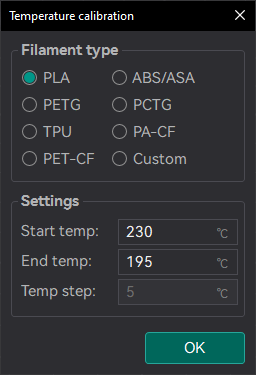
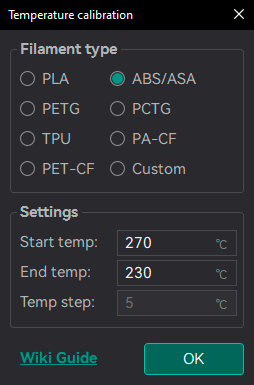
Update temp calib doc
Swap the animated temp-tower GIF for a static PNG and update the menu image.
Reformat the nozzle temperature paragraph for readability, change a NOTE to a TIP, and add a NOTE explaining that the temp tower scales with nozzle diameter.
Remove the old GIF file and include the new PNG asset.

diff --git a/calibration/temp_calib.md b/calibration/temp_calib.md
@@ -7,9 +7,12 @@ There is no other calibration that can have such a big impact on the print quali
 
 ## Nozzle Temp tower
 
-Nozzle temperature is one of the most important settings to calibrate for a successful print. The temperature of the nozzle affects the viscosity of the filament, which in turn affects how well it flows through the nozzle and adheres to the print bed. If the temperature is too low, the filament may not flow properly, leading to under-extrusion, poor layer adhesion and stringing. If the temperature is too high, the filament may degrade, over-extrude and produce stringing.
+Nozzle temperature is one of the most important settings to calibrate for a successful print.  
+The temperature of the nozzle affects the viscosity of the filament, which in turn affects how well it flows through the nozzle and adheres to the print bed.  
+If the temperature is too low, the filament may not flow properly, leading to under-extrusion, poor layer adhesion and stringing.  
+If the temperature is too high, the filament may degrade, over-extrude and produce stringing.
 
-![temp-tower_test](https://github.com/OrcaSlicer/OrcaSlicer_WIKI/blob/main/images/Temp-calib/temp-tower_test.gif?raw=true)
+![temp-tower_test](https://github.com/OrcaSlicer/OrcaSlicer_WIKI/blob/main/images/Temp-calib/temp-tower_test.png?raw=true)
 
 ![temp-tower_test_menu](https://github.com/OrcaSlicer/OrcaSlicer_WIKI/blob/main/images/Temp-calib/temp-tower_test_menu.png?raw=true)
 
@@ -18,6 +21,10 @@ Once the print is complete, we can examine each block of the tower and determine
 
 ![temp-tower](https://github.com/OrcaSlicer/OrcaSlicer_WIKI/blob/main/images/Temp-calib/temp-tower.jpg?raw=true)
 
-> [!NOTE]
+> [!TIP]
 > If a range of temperatures looks good, you may want to use the middle of that range as the optimal temperature.  
 > But if you are planning to print at higher [speeds](speed_settings_other_layers_speed)/[flow rates](volumetric_speed_calib), you may want to use the higher end of that range as the optimal temperature.
+
+> [!NOTE]
+> The Temp tower will adjust it's size according to your nozzle diameter.  
+> This ensures that all of its features are properly scaled and visible, regardless of the nozzle size you are using.
